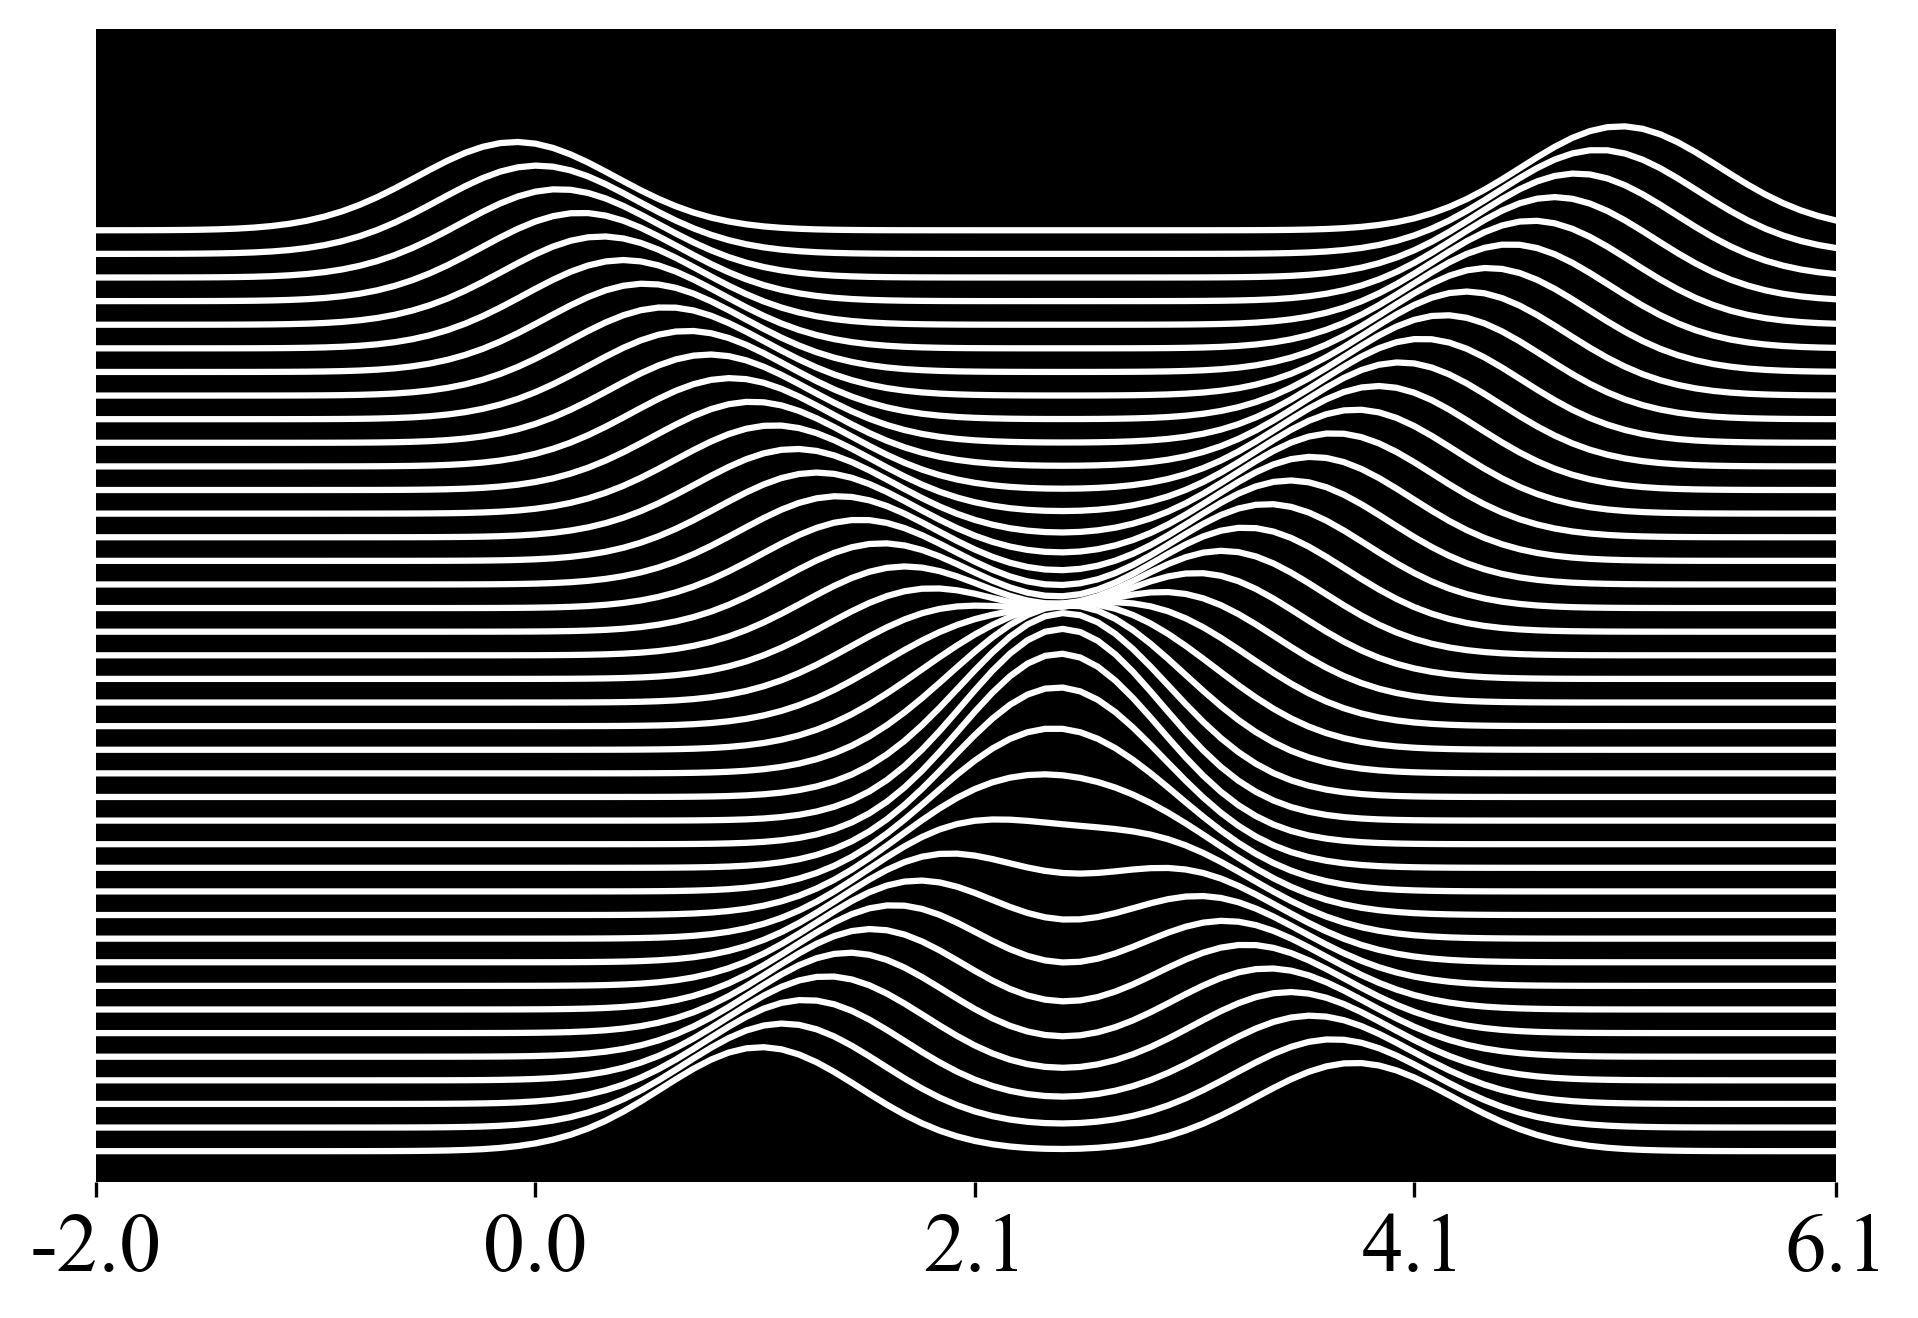
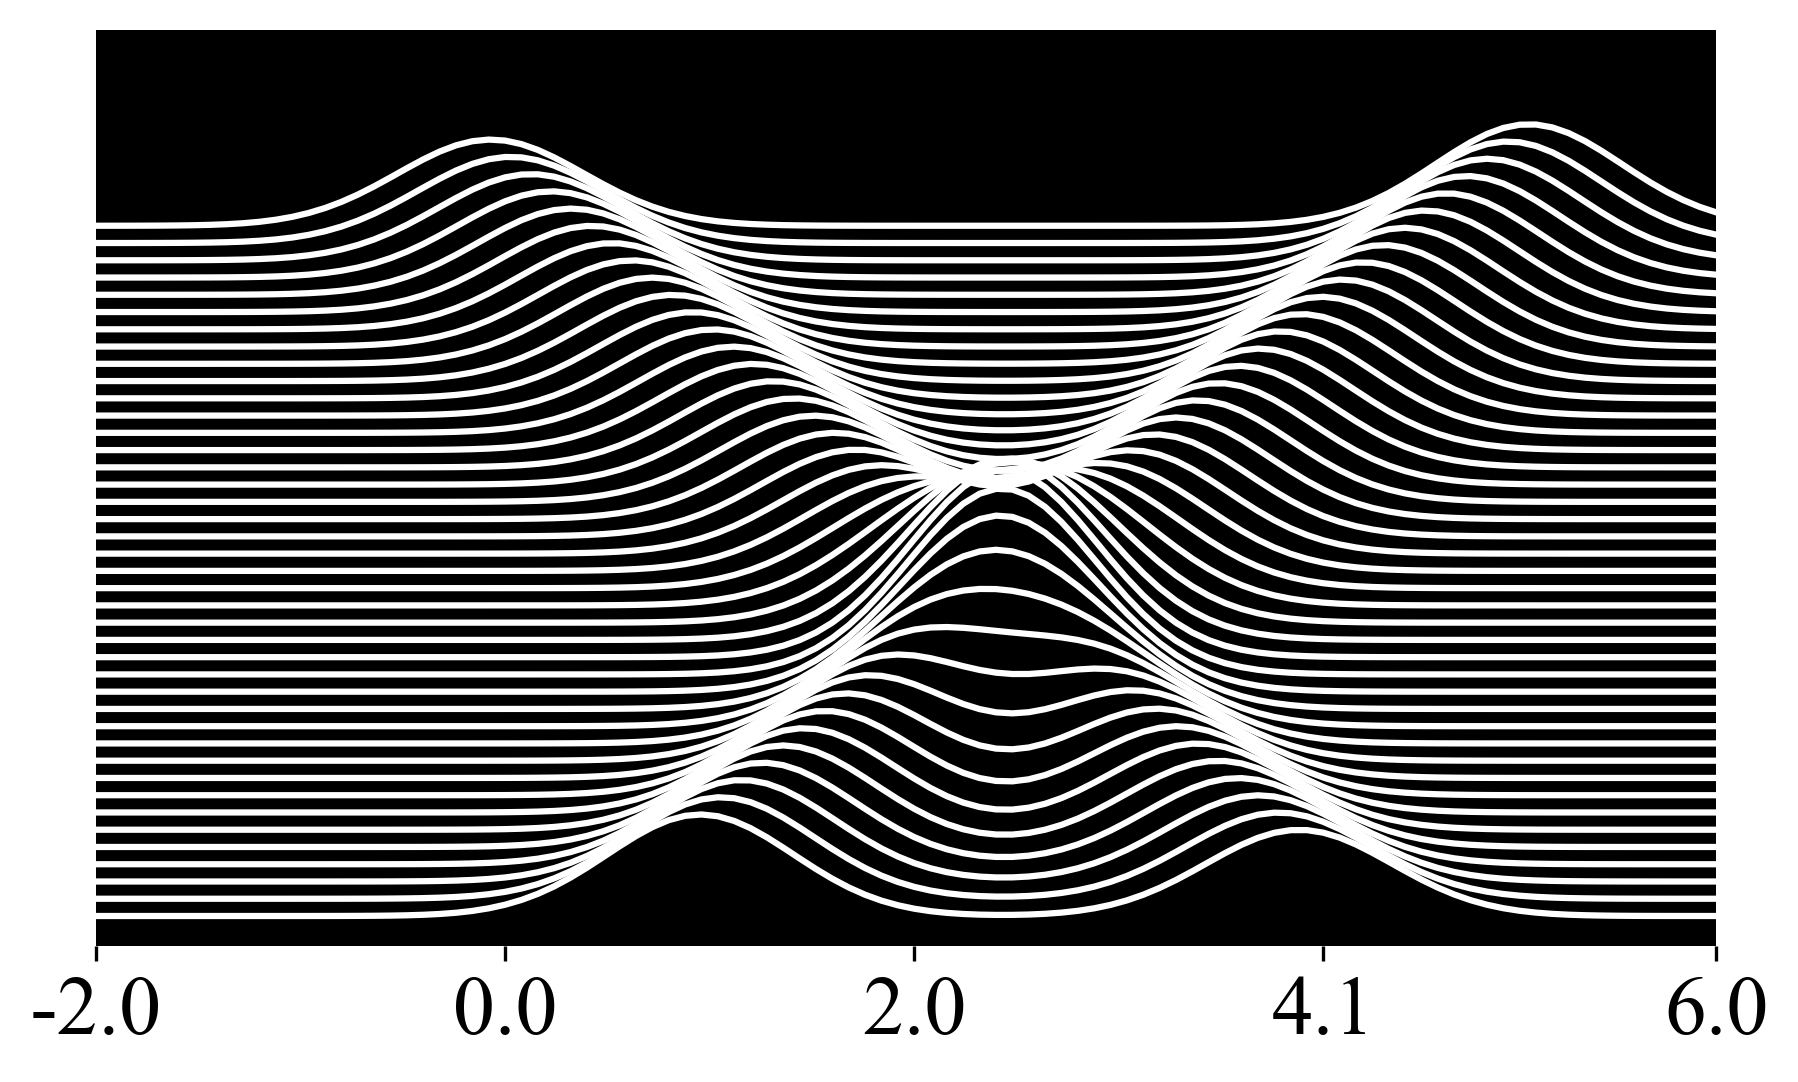
new ridgeline plots

diff --git a/scripts/run_ridgeline_plot.py b/scripts/run_ridgeline_plot.py
@@ -25,7 +25,7 @@ Ridgeline plots
 if __name__ == "__main__":
     # default
     if len(sys.argv) < 3:
-        config = '7'
+        config = '1'
         error_type = 'homo' # error type can be hetero for config = 1,2,3
     # otherwise take argyments from command line
     else:
@@ -134,7 +134,7 @@ if error_type == 'hetero':
     fname = 'hetero_'+fname
 #------------------------------------------------------------------------
 
-x_list_dense = np.arange(-1,3,0.1)
+x_list_dense = np.arange(-1,3.1,0.1)
 
 #----------------------True-------------------------------------------#
 
@@ -188,11 +188,40 @@ if func.__name__ == 'lin_func' and config != '7':
 
 # put ALL density functions in the same ridgeline plot
 # NOTE: we will transpose the data frames
-df_combined = pd.concat([df_true.transpose(), df_NPMLE.transpose()], axis=1)
 
-fig1, ax1 = joypy.joyplot(df, kind="values", overlap = 0.5 \
-                          ,x_range = list(range(100)), ylabels = False\
-                          ,background='k', linecolor="w",grid=False,  linewidth=1.5,fill=False \
-                          )
+
+ylabels = False
+xlabels = False
+color_list = ['tab:blue', 'tab:orange', 'tab:pink']
+ys = []
+overlap = 0.5
+for i in range(len(x_list_dense)):
+    plt_y = i * (1.0 - overlap)
+    ys.append(plt_y)
+    
+    curve_true = df_true.values[:,i]
+    curve_NPMLE = df_NPMLE.values[:,i]
+    curve_EM = df_EM.values[:,i]
+    
+    plt.plot(x_list_dense, curve_true + y, color = color_list[0], \
+             zorder = len(x_list_dense)-i+1)
+    plt.plot(x_list_dense, curve_NPMLE + y, color = color_list[1], \
+             zorder = len(x_list_dense)-i+1)
+    plt.plot(x_list_dense, curve_EM + y, color = color_list[2], \
+             zorder = len(x_list_dense)-i+1)
+
+    
+    
+    
+    
+    
+    
+    
+    
+    
+    
+    
+    
+    
 
 
